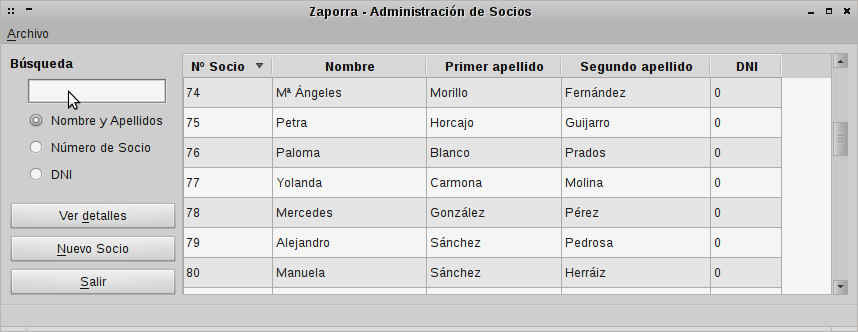
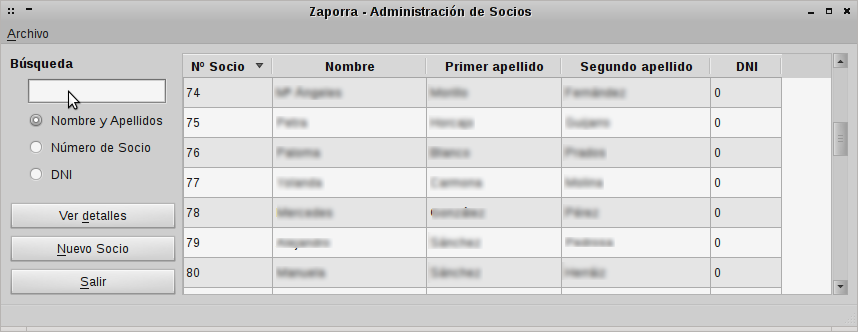
Add README for GUI_user_management and GrapEd Update screenshot of GUI_user_management Add screencast of GraphEd

diff --git a/GraphEd/README.md b/GraphEd/README.md
@@ -1,0 +1,8 @@
+QML Graph Editor
+================
+
+This is just a technical proof of concept, aiming to create a visual Graph Editor. The core interest of this demo is to develop a working solution, so visuals aren't taken care at all.
+
+It was implemented with the Qt 5 / Qt Quick framework technology, comprising a mix of QML and Javascript code.
+
+![Screencast](doc/screencast.gif)

diff --git a/GUI_user_management/README.md b/GUI_user_management/README.md
@@ -1,0 +1,8 @@
+User management
+===============
+
+This is a simple GUI used to manage the user account information of people belonging to a private club. It allows to search by any of the fields, and all information is stored into a SQLite database.
+
+Developed with Qt 4.
+
+![Screenshot](doc/screenshot.png)
